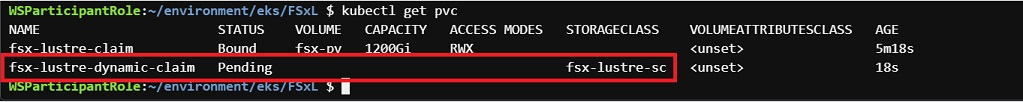
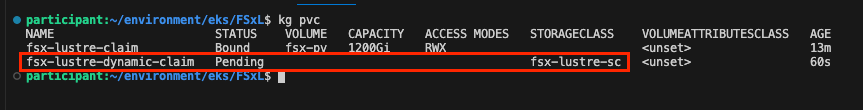
updated images for VSCode terminal

diff --git a/assets/README.md b/assets/README.md
@@ -101,9 +101,9 @@ Account provisioning took total : 00:44:49m
 ASSET_BUCKET=$(aws cloudformation describe-stacks --stack-name genaifsxworkshoponeks --query "Stacks[0].Parameters[?ParameterKey=='Assets'].ParameterValue" --output text)
 ASSET_BUCKET=$(echo $ASSET_BUCKET | sed 's/\/assets\///')    
 ASSET_BUCKET=$ASSET_BUCKET/static
-cd /home/ec2-user/environment/
+cd /home/participant/environment/
 aws s3 sync $ASSET_BUCKET/scripts ./scripts    
-cd /home/ec2-user/environment/scripts
+cd /home/participant/environment/scripts
 ```
 
 <!-- 
@@ -111,11 +111,11 @@ WE DONT NEED THIS:
 ### USE FOLLOWING COMMANDs TO SYNC S3 TO LOCAL/CLOUD9 : 
 ```bash
 ASSET_BUCKET=<asset bucket>
-aws s3 sync $ASSET_BUCKET/eks /home/ec2-user/environment/eks --delete
-aws s3 sync $ASSET_BUCKET/terraform /home/ec2-user/environment/terraform --delete
+aws s3 sync $ASSET_BUCKET/eks /home/participant/environment/eks --delete
+aws s3 sync $ASSET_BUCKET/terraform /home/participant/environment/terraform --delete
 # Following are only required for testing
-aws s3 sync $ASSET_BUCKET/download /home/ec2-user/environment/download --delete
-aws s3 sync $ASSET_BUCKET/scripts /home/ec2-user/environment/scripts --delete
+aws s3 sync $ASSET_BUCKET/download /home/participant/environment/download --delete
+aws s3 sync $ASSET_BUCKET/scripts /home/participant/environment/scripts --delete
 ``` -->
 
 ## DOWNLOAD AND UPLOAD MODEL TO ASSET BUCKET

diff --git a/content/300_module3_replication/330_RegionalFailoverAndSwitch.md b/content/300_module3_replication/330_RegionalFailoverAndSwitch.md
@@ -25,9 +25,7 @@ Replace the **<YOUR-vLLM-POD-NAME>** value with the value you just copied, and r
 
 Run the following command
 
-:::code{showCopyAction=true showLineNumbers=true language=bash}
-df -h
-:::
+::code[df -h]{showCopyAction=true showLineNumbers=false language=bash}
 
 The **work-dir** is the mount location of your Persistent Volume Claim (backed by FSx for Lustre file system).
 
